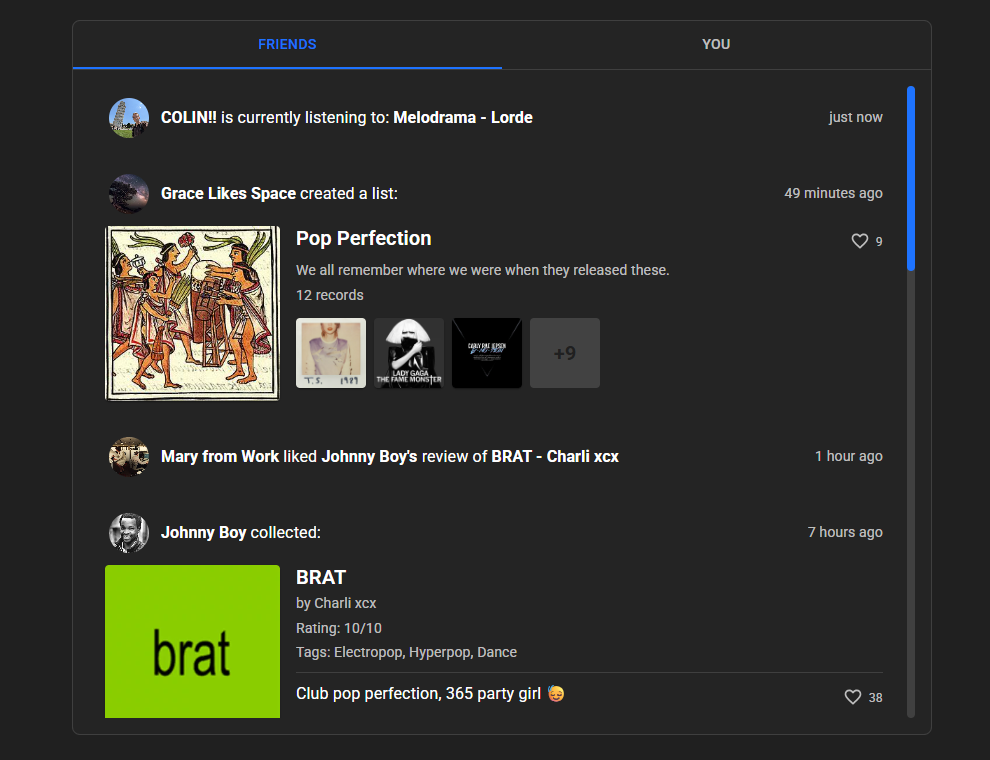
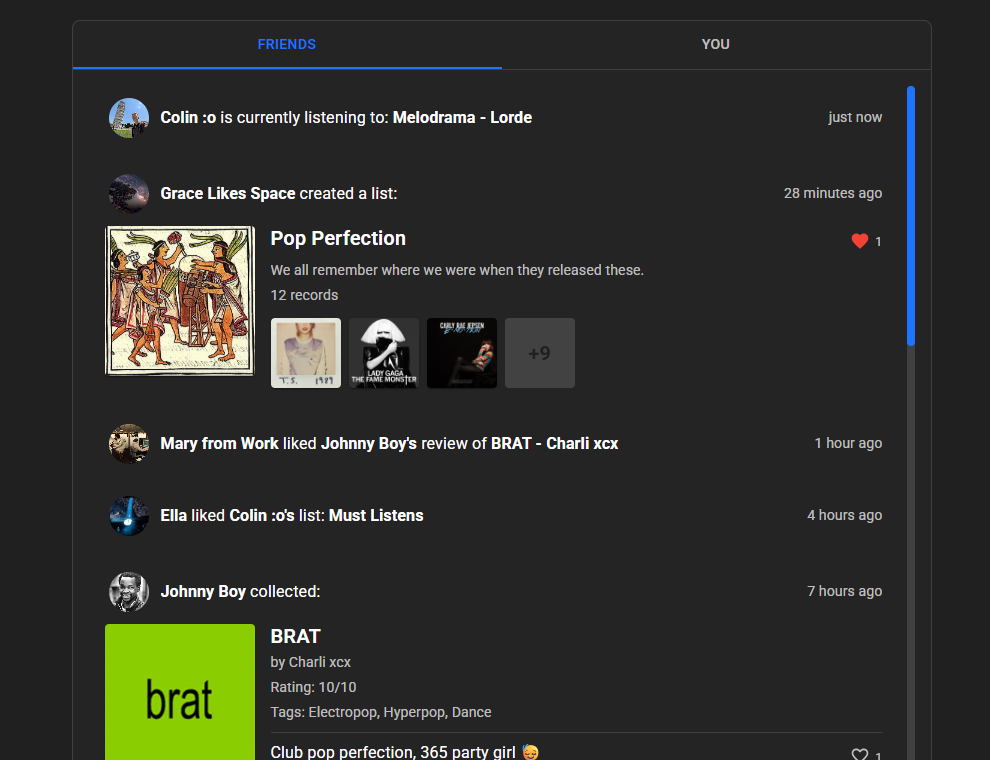
UX improvements

diff --git a/src/Community.tsx b/src/Community.tsx
@@ -1190,8 +1190,8 @@ export default function Community() {
                                   alt={`${entry.record.record} cover`}
                                   variant="rounded"
                                   sx={{
-                                    width: { xs: 100, sm: 150, md: 175 },
-                                    height: { xs: 100, sm: 150, md: 175 },
+                                    width: { xs: 100, sm: 125, md: 150 },
+                                    height: { xs: 100, sm: 125, md: 150 },
                                     borderRadius: 1,
                                     flexShrink: 0,
                                     boxShadow: 1,
@@ -1201,8 +1201,8 @@ export default function Community() {
                                 <Avatar
                                   variant="rounded"
                                   sx={{
-                                    width: { xs: 100, sm: 150, md: 175 },
-                                    height: { xs: 100, sm: 150, md: 175 },
+                                    width: { xs: 100, sm: 125, md: 150 },
+                                    height: { xs: 100, sm: 125, md: 150 },
                                     borderRadius: 1,
                                     bgcolor: "grey.800",
                                     flexShrink: 0,
@@ -1458,8 +1458,8 @@ export default function Community() {
                                   alt={`${entry.list.name} cover`}
                                   variant="rounded"
                                   sx={{
-                                    width: { xs: 100, sm: 150, md: 175 },
-                                    height: { xs: 100, sm: 150, md: 175 },
+                                    width: { xs: 100, sm: 125, md: 150 },
+                                    height: { xs: 100, sm: 125, md: 150 },
                                     borderRadius: 1,
                                     flexShrink: 0,
                                     boxShadow: 1,

diff --git a/src/Collection.tsx b/src/Collection.tsx
@@ -379,7 +379,6 @@ export default function Collection({ tableName, title }: CollectionProps) {
             mb: 1,
             display: "flex",
             justifyContent: "flex-start",
-            gap: 0.5,
           }}
         >
           <TextField
@@ -389,14 +388,14 @@ export default function Collection({ tableName, title }: CollectionProps) {
             value={searchTerm}
             onChange={(event) => setSearchTerm(event.target.value)}
             sx={{
-              width: 300,
+              width: 275,
             }}
           />
           <Button
             variant="outlined"
             color="primary"
             startIcon={<AddIcon />}
-            sx={{ whiteSpace: "nowrap" }}
+            sx={{ whiteSpace: "nowrap", ml: 1 }}
             onClick={async () => {
               if (creating) return;
               setCreating(true);
@@ -465,11 +464,13 @@ export default function Collection({ tableName, title }: CollectionProps) {
             Custom
           </Button>
           {!(currentTableIsPrivate === true) && (
-            <ShareButton
-              url={getCollectionUrl()}
-              title={title ?? tableName}
-              text={`Check out my ${title ?? tableName}`}
-            />
+            <Box sx={{ ml: 0.75 }}>
+              <ShareButton
+                url={getCollectionUrl()}
+                title={title ?? tableName}
+                text={`Check out my ${title ?? tableName}`}
+              />
+            </Box>
           )}
         </Box>
         <Grid

diff --git a/src/LandingPage.tsx b/src/LandingPage.tsx
@@ -213,7 +213,7 @@ export default function LandingPage() {
       Icon: PeopleAltIcon,
     },
     {
-      title: "See reviews and ratings",
+      title: "Reviews and ratings",
       description:
         "Review any record, see the average ratings and reviews for your favourite records, and like your favourite reviews.",
       Icon: FavoriteIcon,
@@ -227,11 +227,11 @@ export default function LandingPage() {
     {
       title: "Keep up with your friends",
       description:
-        "Follow other collectors to keep up with their latest activity — including their latest collection additions, reviews, lists, and likes.",
+        "Follow other collectors to compare your favourites and keep up with their latest activity — including collection additions, reviews, lists, and likes.",
       Icon: FeedIcon,
     },
     {
-      title: "Discogs import in seconds",
+      title: "Discogs import in a Blink",
       description:
         "Import your Discogs collection and we handle covers, ratings, and tags automatically.",
       Icon: CloudUploadIcon,
